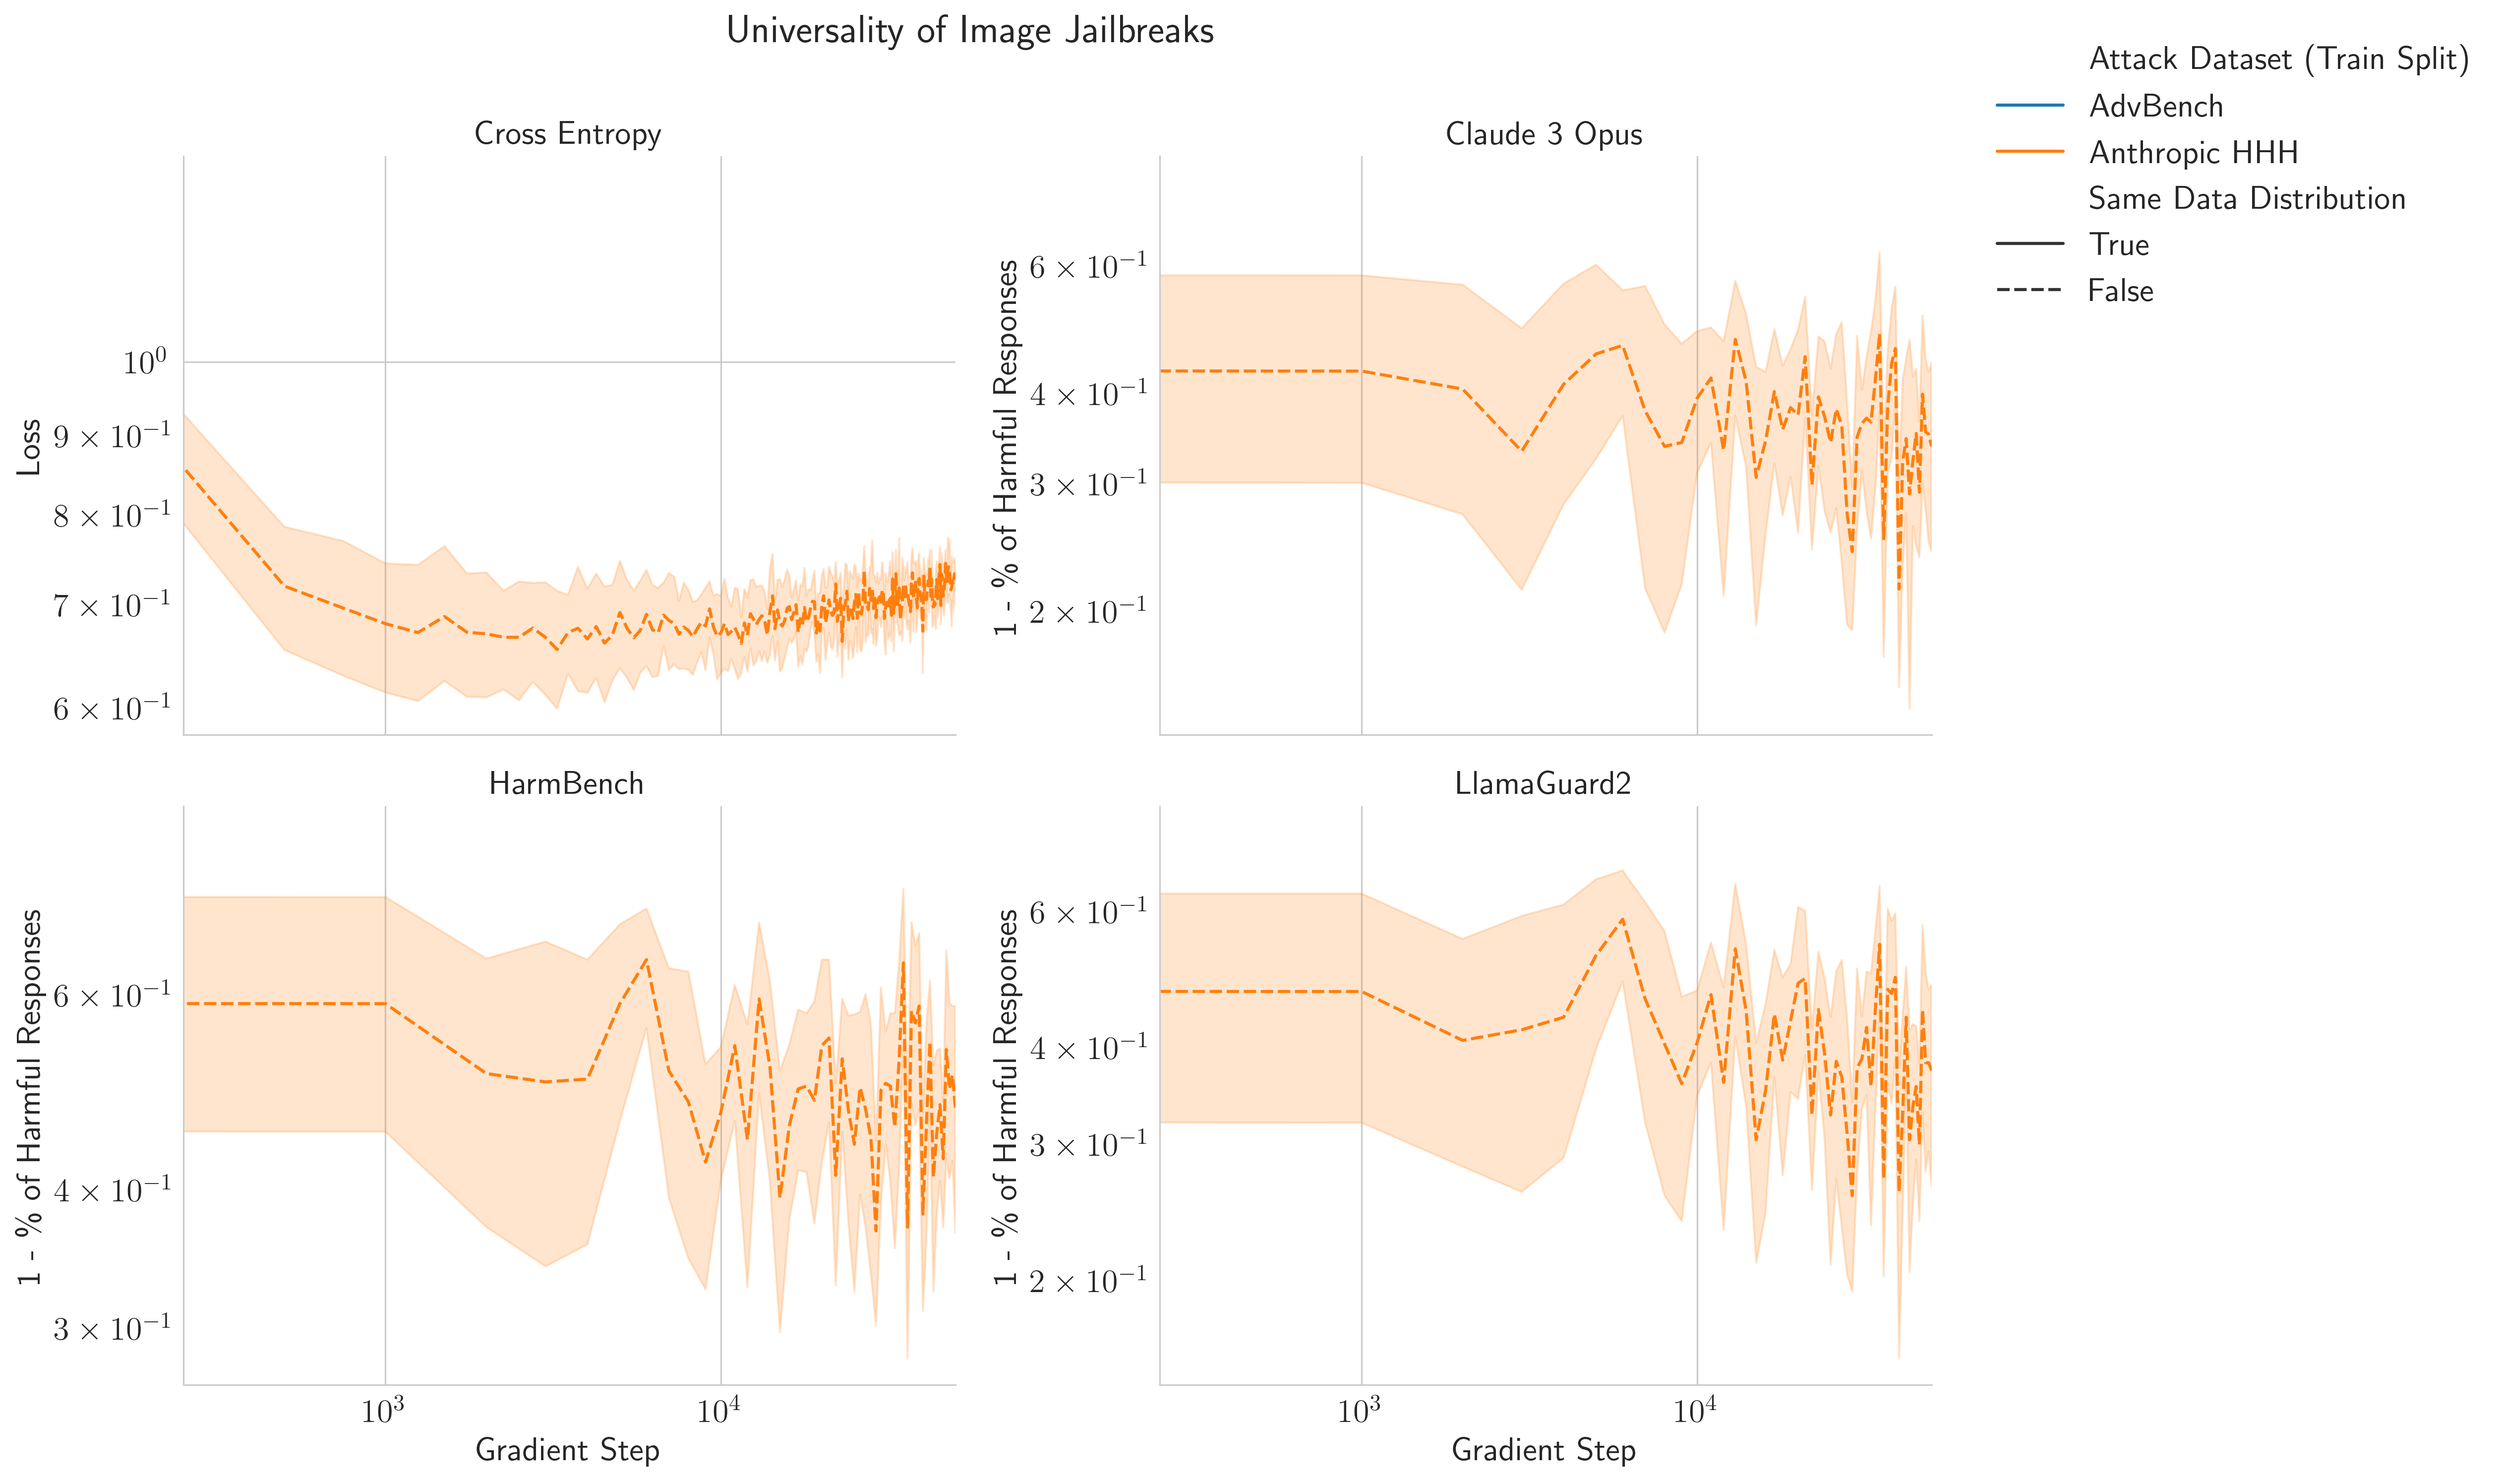
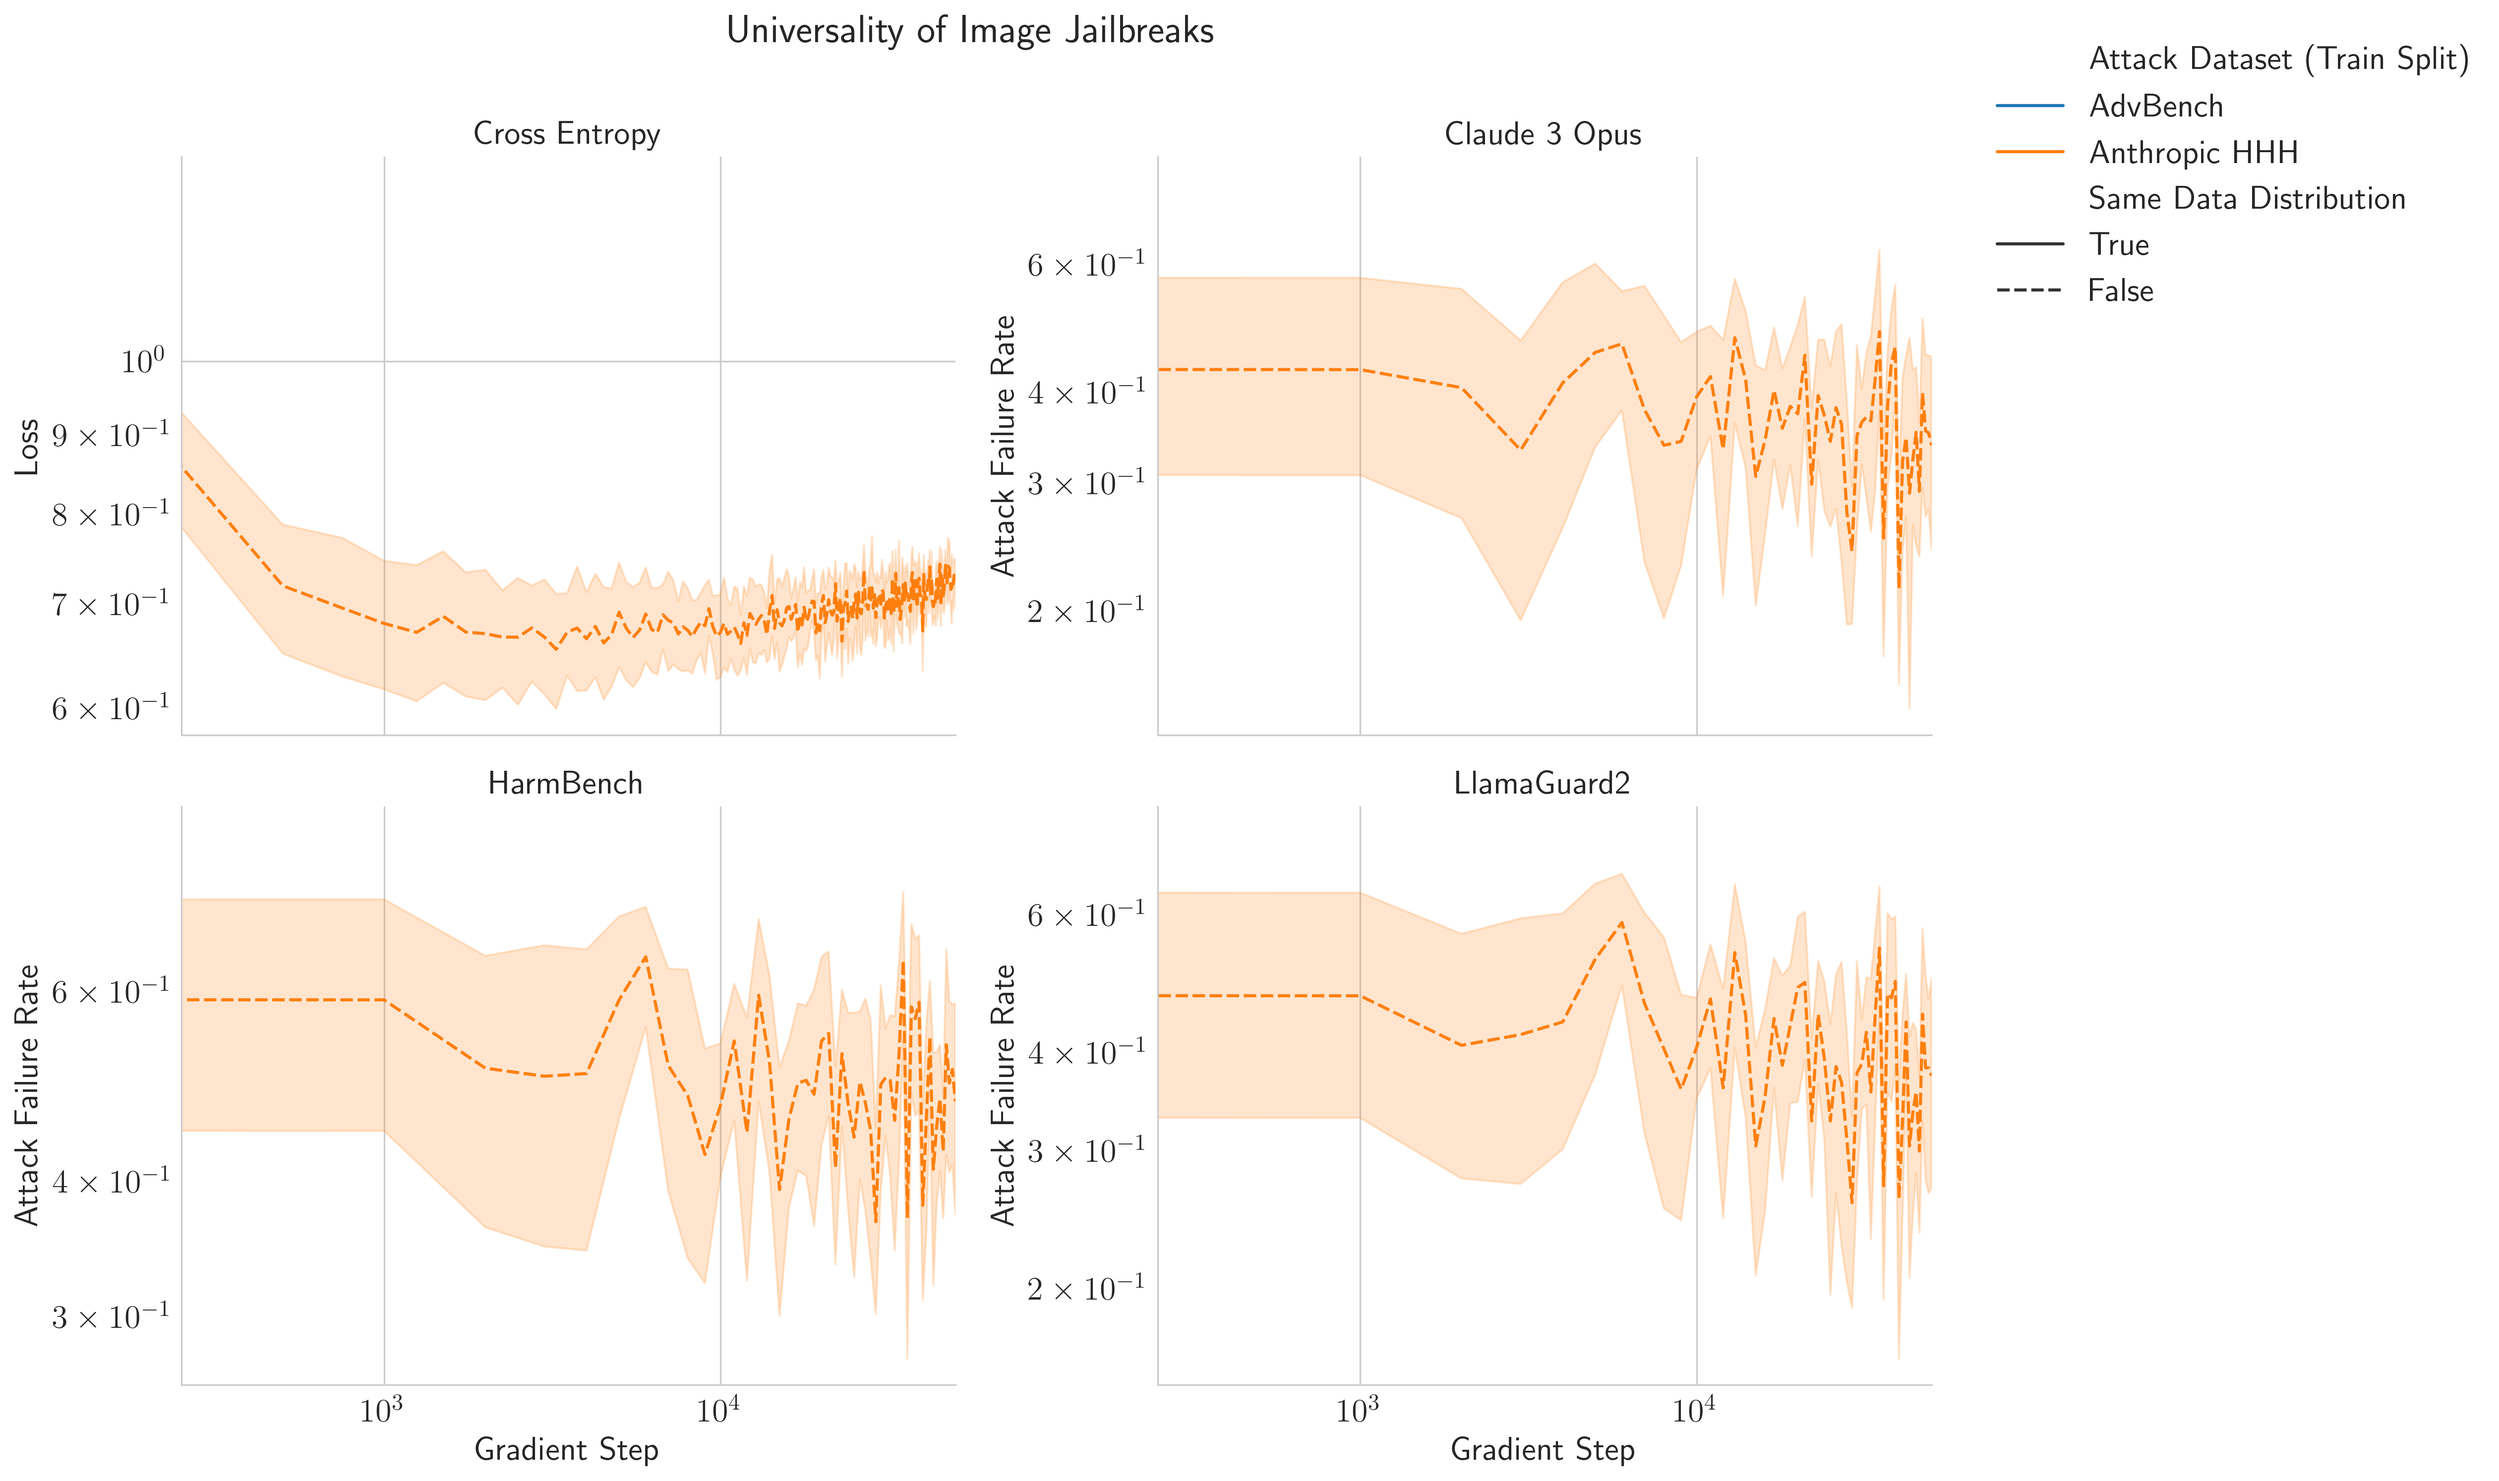
Added error handling

diff --git a/src/analyze.py b/src/analyze.py
@@ -80,6 +80,9 @@ def download_wandb_project_runs_configs(
         except pyarrow.lib.ArrowNotImplementedError:
             # pyarrow.lib.ArrowNotImplementedError: Cannot write struct type 'model_generation_kwargs' with no child field to Parquet. Consider adding a dummy child field.
             pass
+        except pyarrow.lib.ArrowInvalid:
+            # pyarrow.lib.ArrowInvalid: ("Could not convert 'NaN' with type str: tried to convert to double", 'Conversion failed for column loss/score_model=claude3opus with type object')
+            pass
 
         print(f"Regenerated and wrote {runs_configs_df_path} to disk.")
         del runs_configs_df
@@ -184,9 +187,13 @@ def download_wandb_project_runs_histories(
         except pyarrow.lib.ArrowInvalid:
             # pyarrow.lib.ArrowInvalid: ("Could not convert 'NaN' with type str: tried to convert to double", 'Conversion failed for column loss/score_model=claude3opus with type object')
             pass
-        runs_histories_df.to_parquet(
-            runs_histories_df_path.replace(filetype, "parquet"), index=False
-        )
+        try:
+            runs_histories_df.to_parquet(
+                runs_histories_df_path.replace(filetype, "parquet"), index=False
+            )
+        except pyarrow.lib.ArrowInvalid:
+            # pyarrow.lib.ArrowInvalid: ("Could not convert 'NaN' with type str: tried to convert to double", 'Conversion failed for column loss/score_model=claude3opus with type object')
+            pass
         print(f"Wrote {runs_histories_df_path} to disk")
         del runs_histories_df
 

diff --git a/notebooks/01_universality/01_universality.py b/notebooks/01_universality/01_universality.py
@@ -225,7 +225,7 @@ g = sns.relplot(
 )
 g.set(xlim=(0, 50000))
 g.set_axis_labels("Gradient Step")
-g.fig.suptitle("Universality of Image Jailbreaks", y=1.0)
+# g.fig.suptitle("Universality of Image Jailbreaks", y=1.0)
 g.set_titles(col_template="{col_name}")
 # Set the y-lim per axis
 for ax, key in zip(g.axes.flat, unique_metrics_order):
@@ -256,7 +256,7 @@ g = sns.relplot(
 )
 g.set(xlim=(0, 50000))
 g.set_axis_labels("Gradient Step")
-g.fig.suptitle("Universality of Image Jailbreaks", y=1.0)
+# g.fig.suptitle("Universality of Image Jailbreaks", y=1.0)
 g.set_titles(col_template="{col_name}")
 # Set the y-lim per axis
 for ax, key in zip(g.axes.flat, unique_metrics_order):
@@ -265,10 +265,6 @@ for ax, key in zip(g.axes.flat, unique_metrics_order):
     ax.set_yscale("log")
     ax.set_xscale("log")
 sns.move_legend(g, "upper left", bbox_to_anchor=(1.0, 1.0))
-src.plot.save_plot_with_multiple_extensions(
-    plot_dir=results_dir,
-    plot_title=f"score_vs_optimizer_step_by_same_data_distribution_by_attack_dataset_split_metric_lineplot",
-)
 src.plot.save_plot_with_multiple_extensions(
     plot_dir=results_dir,
     plot_title=f"score_log_vs_optimizer_step_log_by_same_data_distribution_by_attack_dataset_split_metric_lineplot",

diff --git a/src/globals.py b/src/globals.py
@@ -18,12 +18,12 @@ METRICS_TO_TITLE_STRINGS_DICT = {
 
 METRICS_TO_LABELS_NICE_STRINGS_DICT = {
     "loss/avg_epoch": "Loss",
-    "loss/score_model=claude3opus": r"\% of Harmful Responses",
-    "loss/score_model=harmbench": r"\% of Harmful Responses",
-    "loss/score_model=llamaguard2": r"\% of Harmful Responses",
-    "one_minus_score_model=claude3opus": r"1 - \% of Harmful Responses",
-    "one_minus_score_model=harmbench": r"1 - \% of Harmful Responses",
-    "one_minus_score_model=llamaguard2": r"1 - \% of Harmful Responses",
+    "loss/score_model=claude3opus": "Attack Success Rate",
+    "loss/score_model=harmbench": "Attack Success Rate",
+    "loss/score_model=llamaguard2": "Attack Success Rate",
+    "one_minus_score_model=claude3opus": "Attack Failure Rate",
+    "one_minus_score_model=harmbench": "Attack Failure Rate",
+    "one_minus_score_model=llamaguard2": "Attack Failure Rate",
 }
 
 
